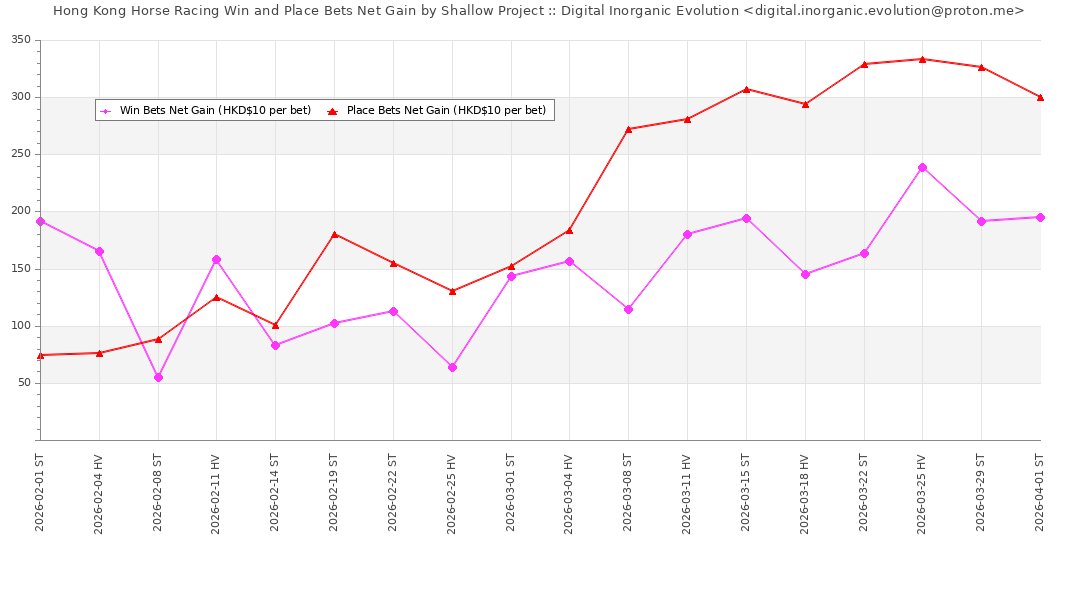
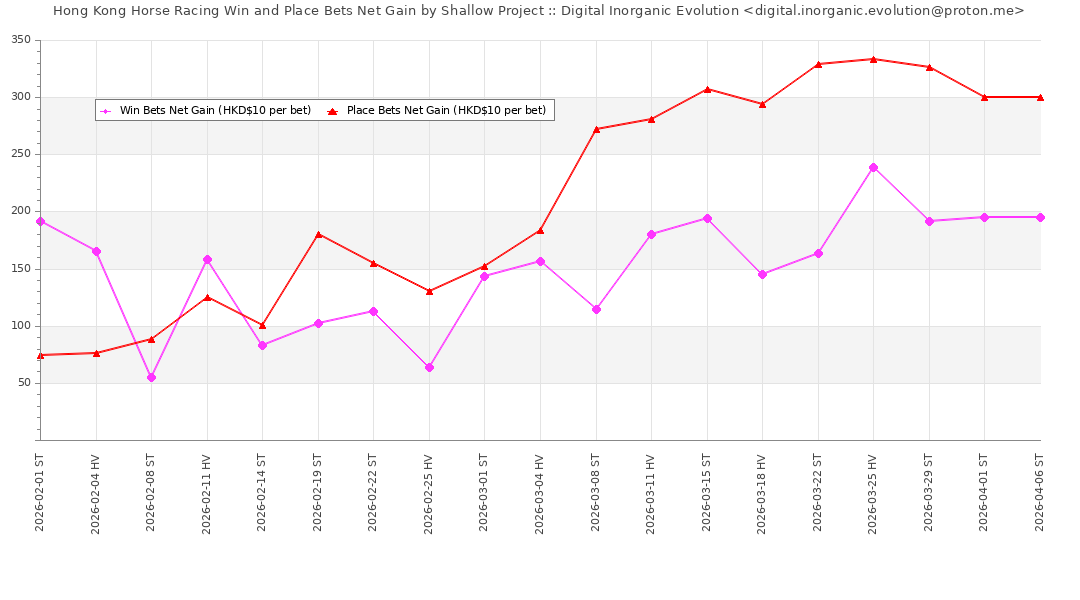
2026/04/06 Predictions

diff --git a/index.html b/index.html
@@ -182,6 +182,83 @@ The survival comparison assumes an energy consumption per hunting of HKD $10 eac
 </tr>
 </thead>
 <tbody>
+<tr><td>2026-04-06</td><td>1</td><td> /  / </td><td></td>
+<td></td>
+<td></td>
+<td></td>
+<td  bgcolor=Beige >1</td>
+<td  bgcolor=Lavender >1</td>
+<td>0</td><td>0</td></tr>
+<tr><td>2026-04-06</td><td>2</td><td> /  / </td><td></td>
+<td></td>
+<td></td>
+<td></td>
+<td  bgcolor=Beige >8</td>
+<td  bgcolor=Lavender >5</td>
+<td>0</td><td>0</td></tr>
+<tr><td>2026-04-06</td><td>3</td><td> /  / </td><td></td>
+<td></td>
+<td></td>
+<td></td>
+<td  bgcolor=Beige >3</td>
+<td  bgcolor=Lavender >8</td>
+<td>0</td><td>0</td></tr>
+<tr><td>2026-04-06</td><td>4</td><td> /  / </td><td></td>
+<td></td>
+<td></td>
+<td></td>
+<td  bgcolor=Beige >2</td>
+<td  bgcolor=Lavender >1</td>
+<td>0</td><td>0</td></tr>
+<tr><td>2026-04-06</td><td>5</td><td> /  / </td><td></td>
+<td></td>
+<td></td>
+<td></td>
+<td  bgcolor=Beige >1</td>
+<td  bgcolor=Lavender >3</td>
+<td>0</td><td>0</td></tr>
+<tr><td>2026-04-06</td><td>6</td><td> /  / </td><td></td>
+<td></td>
+<td></td>
+<td></td>
+<td  bgcolor=Beige >8</td>
+<td  bgcolor=Lavender >1</td>
+<td>0</td><td>0</td></tr>
+<tr><td>2026-04-06</td><td>7</td><td> /  / </td><td></td>
+<td></td>
+<td></td>
+<td></td>
+<td  bgcolor=Beige >1</td>
+<td  bgcolor=Lavender >1</td>
+<td>0</td><td>0</td></tr>
+<tr><td>2026-04-06</td><td>8</td><td> /  / </td><td></td>
+<td></td>
+<td></td>
+<td></td>
+<td  bgcolor=Beige >10</td>
+<td  bgcolor=Lavender >6</td>
+<td>0</td><td>0</td></tr>
+<tr><td>2026-04-06</td><td>9</td><td> /  / </td><td></td>
+<td></td>
+<td></td>
+<td></td>
+<td  bgcolor=Beige >3</td>
+<td  bgcolor=Lavender >1</td>
+<td>0</td><td>0</td></tr>
+<tr><td>2026-04-06</td><td>10</td><td> /  / </td><td></td>
+<td></td>
+<td></td>
+<td></td>
+<td  bgcolor=Beige >8</td>
+<td  bgcolor=Lavender >10</td>
+<td>0</td><td>0</td></tr>
+<tr><td>2026-04-06</td><td>11</td><td> /  / </td><td></td>
+<td></td>
+<td></td>
+<td></td>
+<td  bgcolor=Beige >7</td>
+<td  bgcolor=Lavender >6</td>
+<td>0</td><td>0</td></tr>
 <tr><td>2026-04-01</td><td>1</td><td>12 / 6 / 5</td><td>37.50</td>
 <td>15.50</td>
 <td>29.00</td>
@@ -1447,7 +1524,7 @@ The survival comparison assumes an energy consumption per hunting of HKD $10 eac
 <p>
 <a href="https://github.com/Digital-Inorganic-Evolution/Digital-Inorganic-Evolution.github.io/commits/main/" target="_blank">Check Commits on GitHub</a>
 <p>
-<h4>Generated at HKT 2026-04-01 23:42:18</h4>
+<h4>Generated at HKT 2026-04-06 08:41:37</h4>
 	
 <script src="https://code.jquery.com/jquery-3.7.1.min.js"></script>
 <script type="text/javascript" src="https://cdn.datatables.net/2.3.7/js/dataTables.min.js"></script>  
